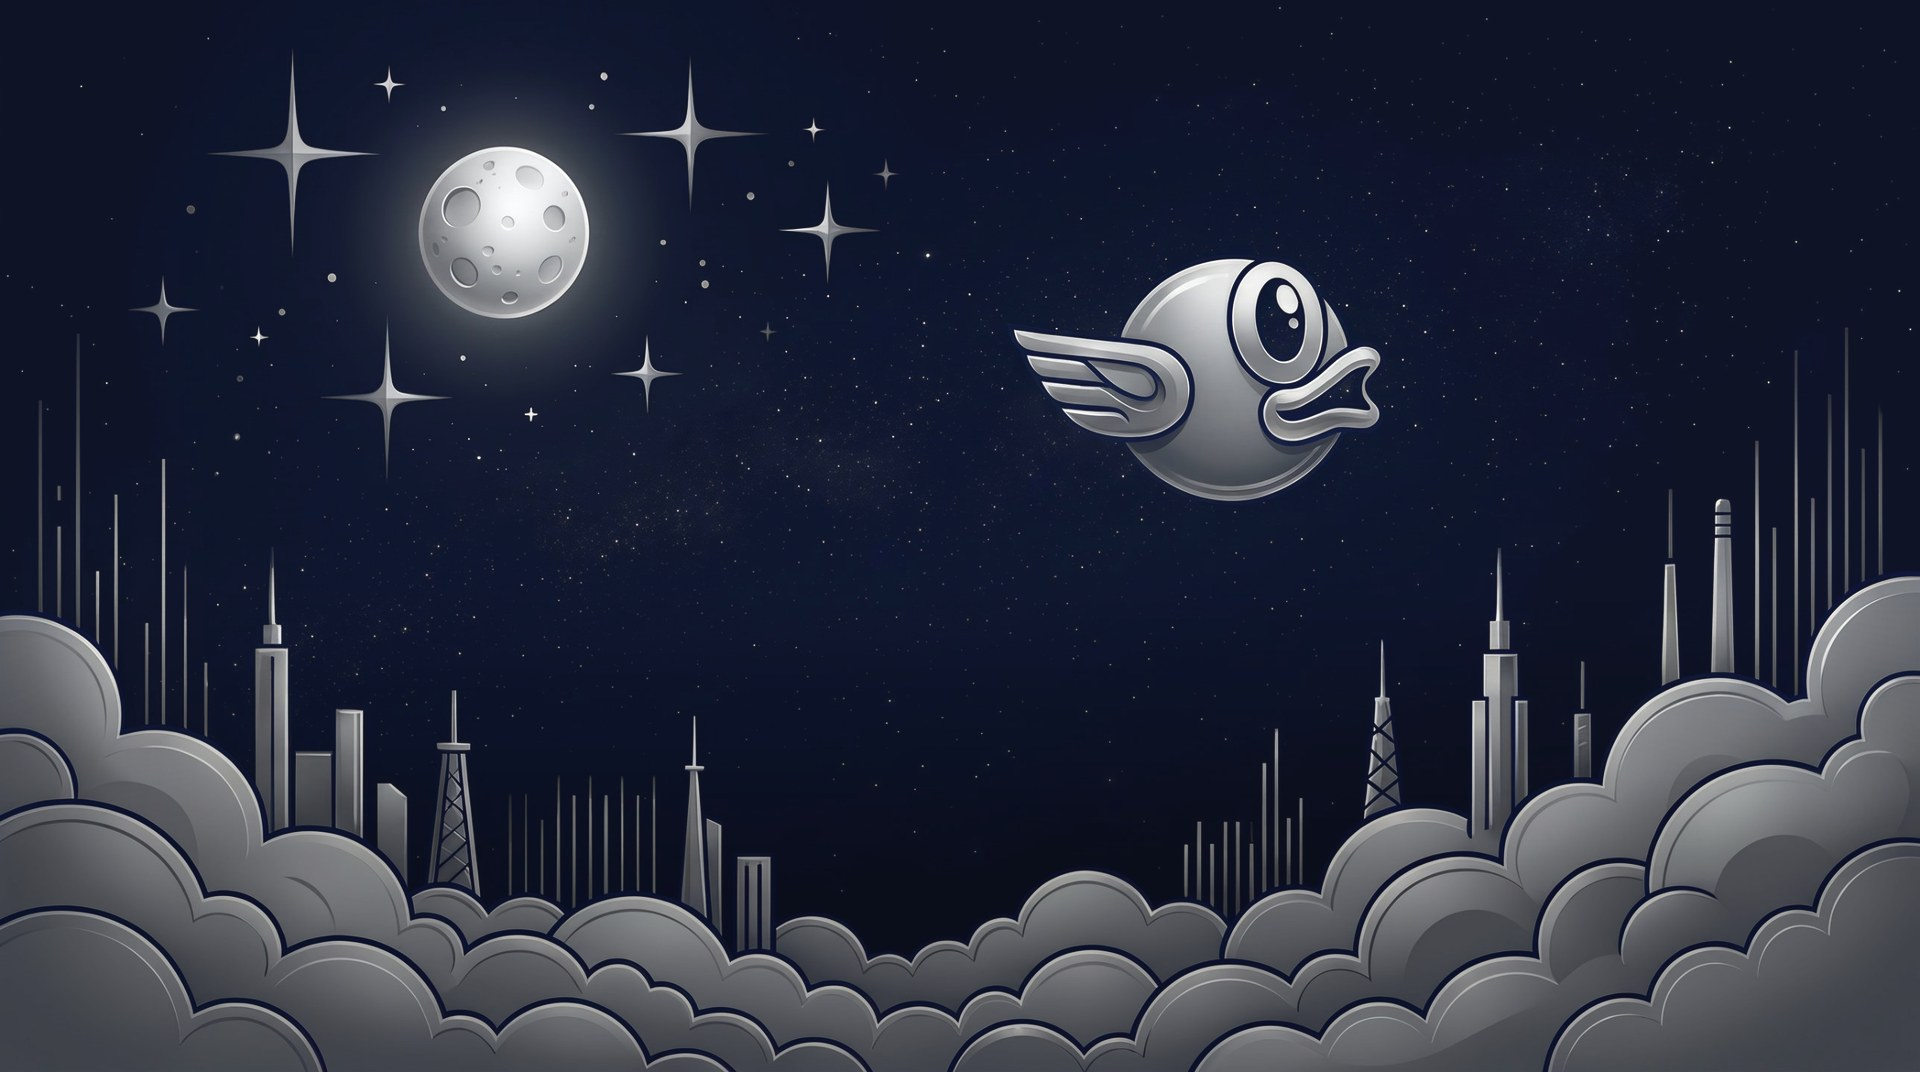
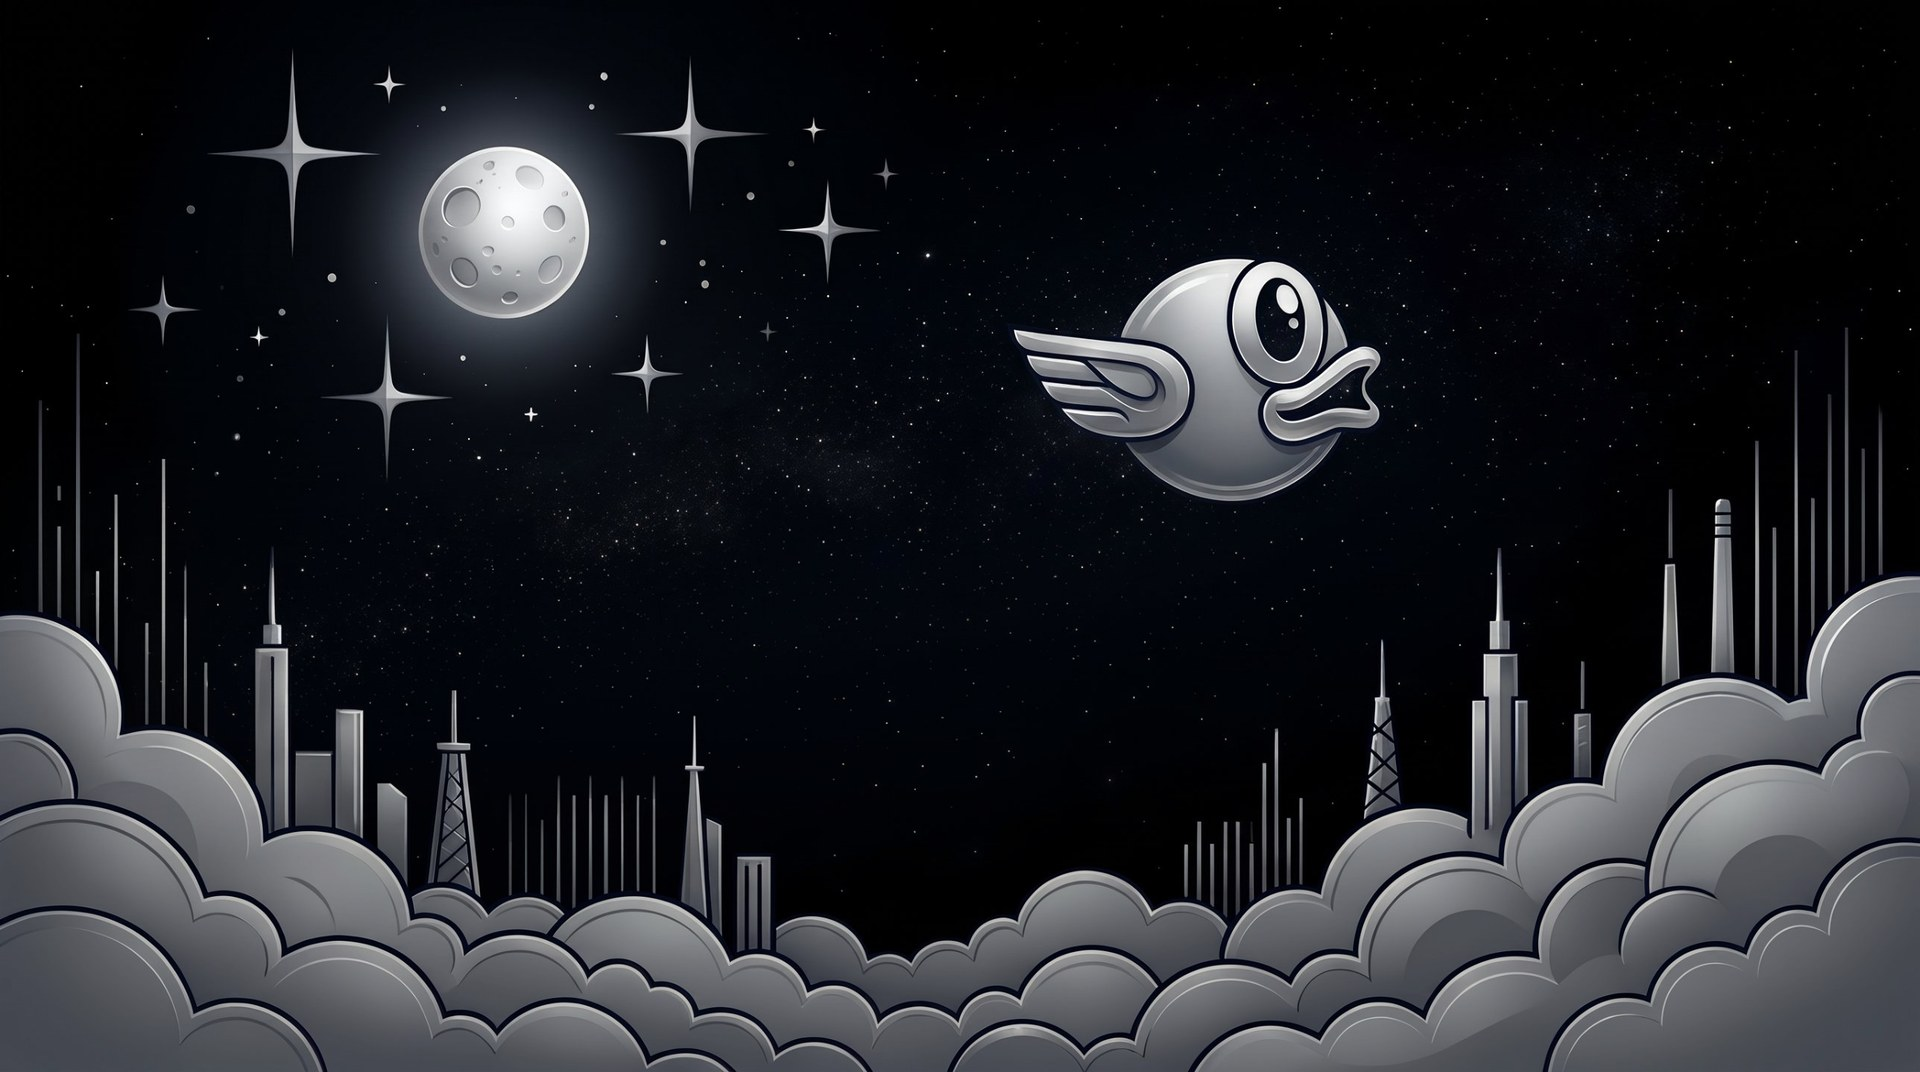
Silverwing: keep the black sky, near-black panels
Claude-Session: https://claude.ai/code/session_01Cpg3kidXXQpRBHH6ebpQfe

diff --git a/src/qt/guiutil.cpp b/src/qt/guiutil.cpp
@@ -565,8 +565,8 @@ static const DarkTheme darkThemes[] = {
       0xffb347, 0xff6b5a, 0xffffff, 0xe6d6cc },
     // Silverwing: the bird past a silver moon over a city in the clouds; monochrome silver
     { "Silverwing", ":/themes/silverwing.qss", ":/themes/silverwing.jpg", 0, true,
-      0x0b0f1e, 0x10152a, 0x161c34, 0x3a4258, 0x4a5370, 0x1e2540, 0x05070f, 0xffffff, 0x5c6478,
-      0xdfe5ee, 0xb9cbe6, 0x3a4560, 0xff7b7b,
+      0x07080b, 0x0c0d12, 0x121319, 0x3c3f48, 0x4c505c, 0x1a1c23, 0x030304, 0xffffff, 0x5e626e,
+      0xdfe5ee, 0xb9cbe6, 0x3a3e4a, 0xff7b7b,
       0xb9cbe6, 0xff8a8a, 0xffffff, 0xd0d6e2 },
     // Flappy Night: the FlappyCoin city after dark; yellow and pipe green
     { "Flappy Night", ":/themes/flappynight.qss", 0, drawFlappyNightScene, true,
